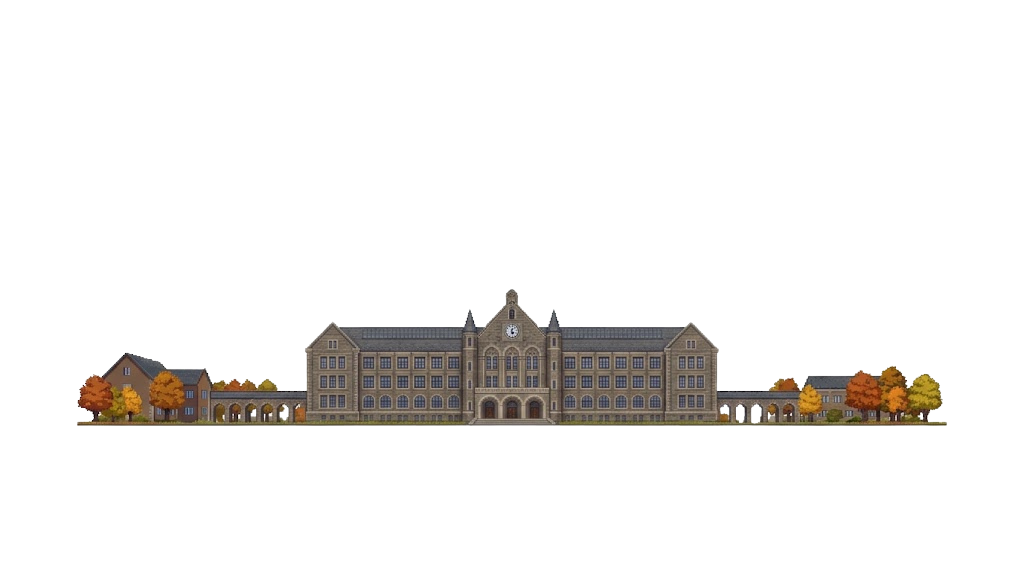
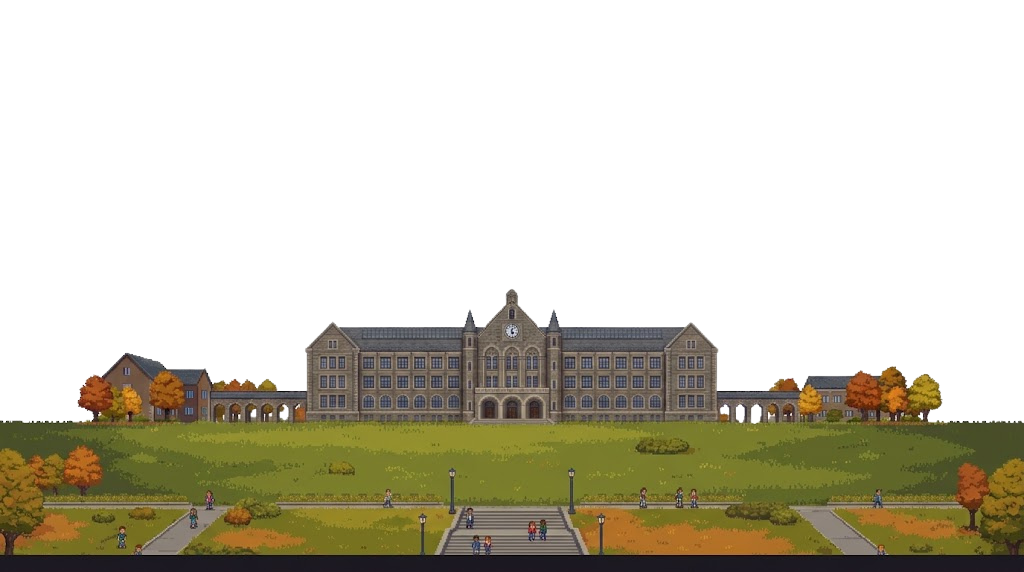
updated pictures

Changed region(s): [[0.0, 0.7133, 1.0, 1.0]]

diff --git a/hub/index.html b/hub/index.html
@@ -5,9 +5,8 @@
   <meta name="viewport" content="width=device-width, initial-scale=1.0" />
   <title>NTNU Games – Daglige norske spill & hjernetrim</title>
   <meta name="description" content="Spill daglige spill fra NTNU Games: Kattfisking, Mer eller Mindre og NTNU guesser." />
-  <link rel="icon" type="image/png" href="/assets/icons/ntnu_guesser.png" />
-  <link rel="apple-touch-icon" href="/assets/icons/ntnu_guesser.png" />
-  <link rel="icon" type="image/svg+xml" href="/favicon.svg" />
+  <link rel="icon" type="image/png" href="/assets/icons/ntnu_games.png?v=2.0" />
+  <link rel="apple-touch-icon" href="/assets/icons/ntnu_games.png?v=2.0" />
   <link rel="stylesheet" href="/hub.css?v=1.2" />
   <link rel="stylesheet" href="/parallax-bg.css?v=1.0" />
 </head>
@@ -27,7 +26,7 @@
     <header class="hub-header">
       <a href="/" class="hub-brand" aria-label="NTNU Games Hjem">
         <div class="brand-icon-wrap">
-          <img src="/assets/icons/ntnu_guesser.png" alt="NTNU Games ikon" class="brand-icon-img" />
+          <img src="/assets/icons/ntnu_games.png?v=2.0" alt="NTNU Games logo" class="brand-icon-img" />
         </div>
         <div>
           <h1 class="brand-title">NTNU Games</h1>
